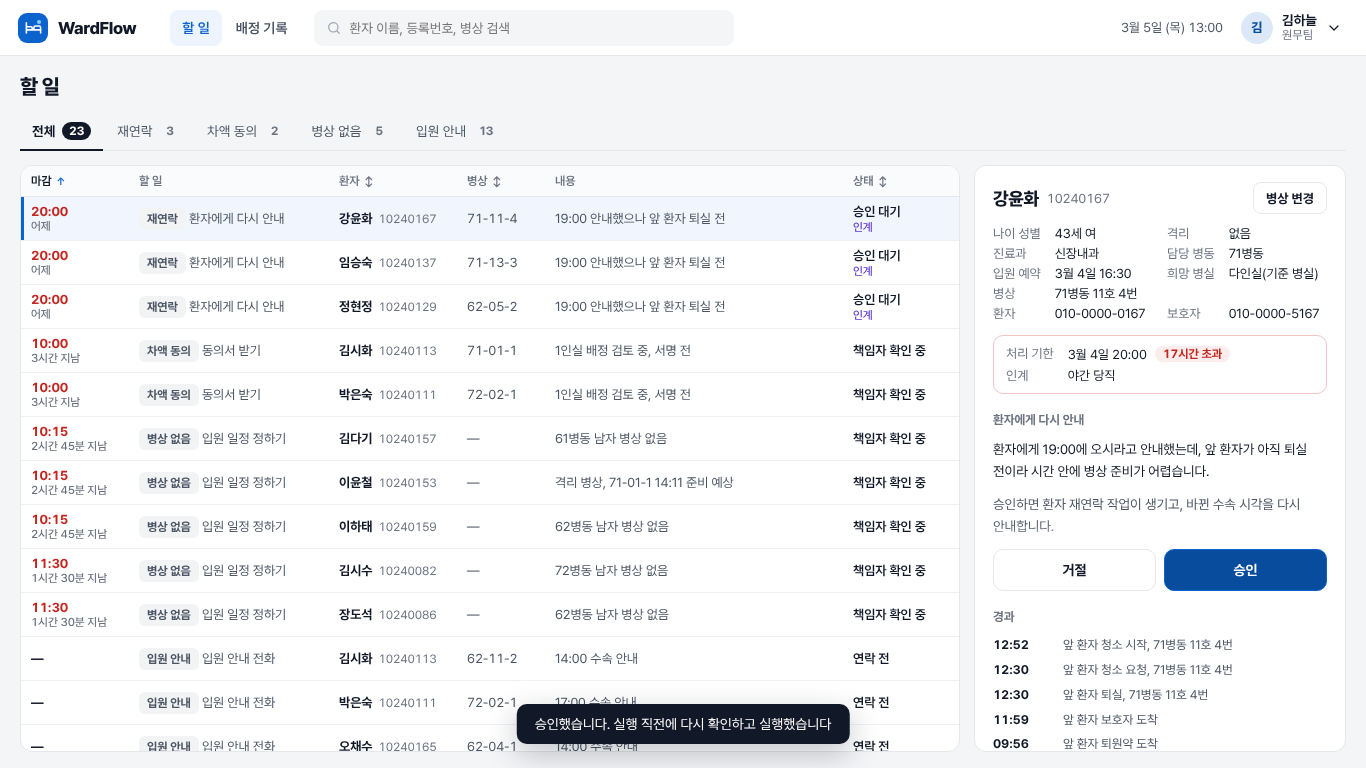
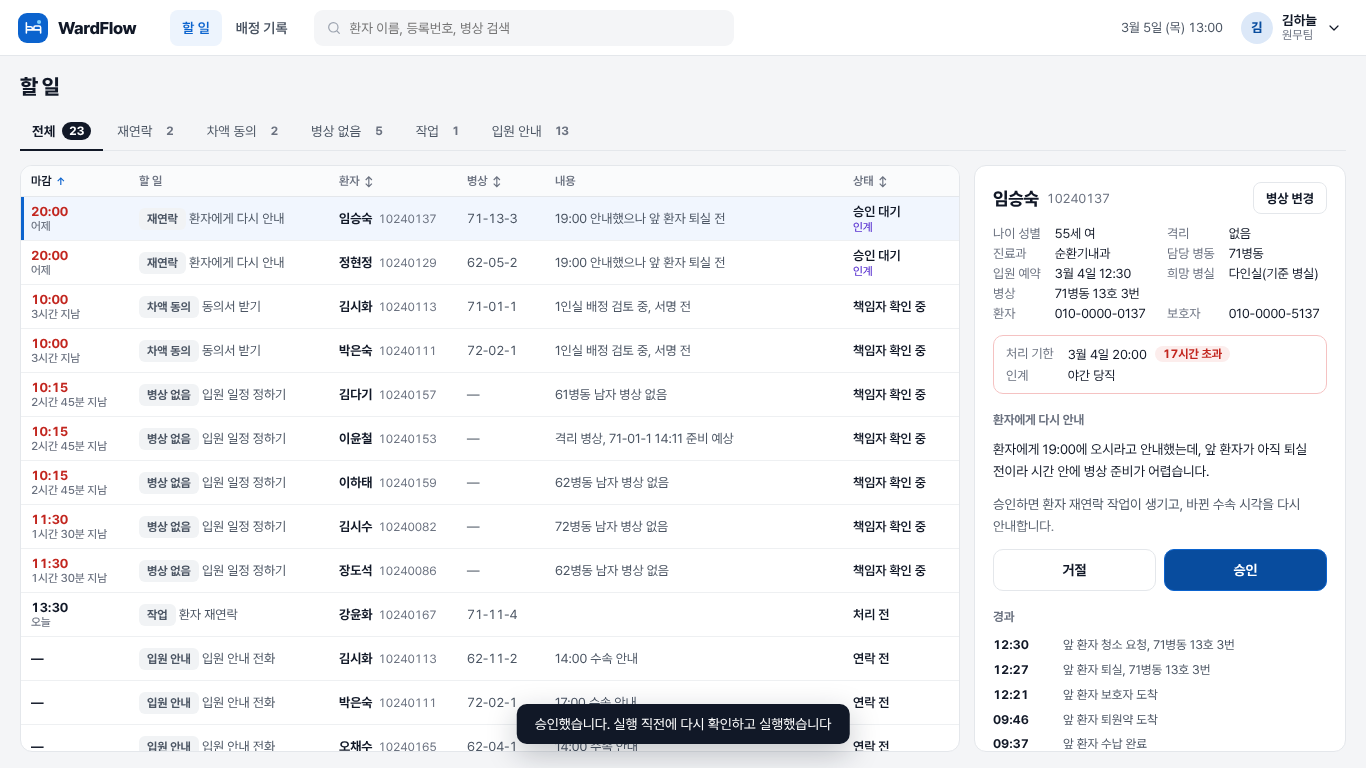
역할별 화면과 열람 범위(원무 전용 API, 병동은 자기 병동 환자만), 병상 선택 병동 탭, 차선책 가능 문구
Claude-Session: https://claude.ai/code/session_01LTbFbGTsqcm4pRk2rt9J7f

diff --git a/web/src/pages/BedPicker.tsx b/web/src/pages/BedPicker.tsx
@@ -1,7 +1,7 @@
-import { useEffect, useState } from 'react'
+import { useEffect, useRef, useState } from 'react'
 import { api, ApiError, type Board, type BoardBed } from '../api'
 
-const FIT_LABEL: Record<string, string> = { ok: '배정 가능', reason: '사유 적으면 가능', ipc: '감염관리실 승인 필요', no: '배정 불가' }
+const FIT_LABEL: Record<string, string> = { ok: '배정 가능', reason: '차선책 가능', ipc: '감염관리실 승인 필요', no: '배정 불가' }
 
 // 병상 직접 지정: 왼쪽은 환자 조건, 추천 병상, 사유와 확정. 오른쪽은 병동→병실→병상 현황판.
 // 병상마다 고를 수 있는지는 서버(게이트웨이 사전 검사)가 정하고, 확정도 게이트웨이가 다시 검사한다.
@@ -12,9 +12,17 @@ export function BedPicker({ caseId, onClose, onDone }: { caseId: string; onClose
   const [memo, setMemo] = useState('')
   const [err, setErr] = useState('')
   const [busy, setBusy] = useState(false)
-  useEffect(() => { api.beds(caseId).then(setB).catch(() => setErr('병상 현황을 불러오지 못했습니다')) }, [caseId])
+  const [tab, setTab] = useState<string | null>(null)
+  const bRef = useRef<Board | null>(null)
+  bRef.current = b
+  useEffect(() => { api.beds(caseId).then(x => { setB(x); setTab((x.wards.find(w => x.need.dept_wards.includes(w.name)) ?? x.wards[0])?.id ?? null) }).catch(() => setErr('병상 현황을 불러오지 못했습니다')) }, [caseId])
   useEffect(() => {
-    const k = (e: KeyboardEvent) => e.key === 'Escape' && onClose()
+    const k = (e: KeyboardEvent) => {
+      if (e.key === 'Escape') onClose()
+      if ((e.key === 'ArrowRight' || e.key === 'ArrowLeft') && !(document.activeElement instanceof HTMLTextAreaElement || document.activeElement instanceof HTMLSelectElement)) {
+        setTab(t => { const ws = bRef.current?.wards ?? []; const i = ws.findIndex(w => w.id === t); const n = ws[i + (e.key === 'ArrowRight' ? 1 : -1)]; return n ? n.id : t })
+      }
+    }
     window.addEventListener('keydown', k); return () => window.removeEventListener('keydown', k)
   }, [onClose])
 
@@ -71,13 +79,21 @@ export function BedPicker({ caseId, onClose, onDone }: { caseId: string; onClose
               </>)}
             </aside>
             <section className="pk-board">
-              <div className="legend">
-                <span><i className="ok" />배정 가능</span><span><i className="reason" />사유 적으면 가능</span>
+              <div className="legend" title="← → 키로 병동을 넘길 수 있습니다">
+                <span><i className="ok" />배정 가능</span><span><i className="reason" />차선책 가능</span>
                 <span><i className="ipc" />감염관리실 승인 필요</span><span><i className="no" />배정 불가</span>
               </div>
-              {b.wards.map(w => (
+              <div className="wtabs" role="tablist" aria-label="병동">
+                {b.wards.map(w => {
+                  const free = w.rooms.flatMap(r => r.beds).filter(x => x.fit !== 'no').length
+                  return (
+                    <button key={w.id} role="tab" aria-selected={tab === w.id} className={tab === w.id ? 'on' : ''} onClick={() => setTab(w.id)}>
+                      <b>{w.name}</b><span>{b.need.dept_wards.includes(w.name) ? '담당 병동' : w.specialty}</span>
+                      <em className={free ? 'has' : ''}>{free ? `가능 ${free}` : '가능 없음'}</em></button>)
+                })}
+              </div>
+              {b.wards.filter(w => w.id === tab).map(w => (
                 <div key={w.id} className="wd">
-                  <h3>{w.name}<span>{w.specialty}{b.need.dept_wards.includes(w.name) ? ', 담당 병동' : ''}</span></h3>
                   <div className="rooms">{w.rooms.map(r => (
                     <div key={r.id} className="room">
                       <div className="rh"><b>{r.label}</b><span>{r.grade}{r.sex && ` ${r.sex}`}{r.cohort && ` 코호트`}</span></div>

diff --git a/web/src/pages/RoleHome.tsx b/web/src/pages/RoleHome.tsx
@@ -1,0 +1,40 @@
+import { useState } from 'react'
+import type { User } from '../api'
+import { Icon, Logo } from '../icons'
+
+// 원무가 아닌 역할의 첫 화면. 역할마다 화면과 권한이 다르다(최소 권한). 병동·감염관리실·관리자 화면은 로드맵 P3·P4에서 만든다.
+const NEXT: Record<string, string> = {
+  ward: '병동 화면에서는 우리 병동으로 올 환자와 퇴원 진행, 병상 준비를 봅니다.',
+  ipc: '감염관리실 화면에서는 격리 환자의 병상 결정과 종말소독 확인을 처리합니다.',
+  id_oncall: '감염관리실 화면에서는 격리 환자의 병상 결정과 종말소독 확인을 처리합니다.',
+  admin: '관리자 화면에서는 접속기록과 계정, 정책 설정을 봅니다.',
+}
+
+export function RoleHome({ user, onLogout, onSwitch }: { user: User; onLogout: () => void; onSwitch: () => void }) {
+  const [menu, setMenu] = useState(false)
+  return (
+    <div className="app">
+      <header className="appbar">
+        <div className="brand"><Logo /><b>WardFlow</b></div>
+        <div className="ab-r">
+          <div className="menu-wrap">
+            <button className="user" onClick={() => setMenu(m => !m)} aria-expanded={menu} aria-haspopup="menu"><span className="av">{user.name[0]}</span>
+              <span><div className="n">{user.name}</div><div className="r">{user.role_label}</div></span><Icon name="chev" small /></button>
+            {menu && (
+              <div className="menu" role="menu">
+                <div className="who"><b>{user.name}</b><br />{user.role_label}</div>
+                <button role="menuitem" onClick={onSwitch}><Icon name="swap" small />다른 계정으로 로그인</button>
+                <button role="menuitem" onClick={onLogout}><Icon name="logout" small />로그아웃</button>
+              </div>
+            )}
+          </div>
+        </div>
+      </header>
+      <div className="empty role-home">
+        <h1>{user.role_label} 화면은 준비 중입니다</h1>
+        <p>{NEXT[user.role] ?? ''}</p>
+        <p className="note">지금은 원무팀 화면만 열려 있습니다. 원무 계정으로 로그인하면 할 일과 배정 기록을 볼 수 있습니다.</p>
+      </div>
+    </div>
+  )
+}

diff --git a/web/src/main.tsx b/web/src/main.tsx
@@ -3,6 +3,7 @@ import { createRoot } from 'react-dom/client'
 import { api, token, type User } from './api'
 import { Entry } from './pages/Entry'
 import { Login } from './pages/Login'
+import { RoleHome } from './pages/RoleHome'
 import { Worklist } from './pages/Worklist'
 import './styles.css'
 
@@ -16,7 +17,11 @@ function App() {
   const logout = () => { token.clear(); setView({ page: 'entry' }) }
 
   if (view.page === 'login') return <Login demoFirst={view.demoFirst} onDone={u => setView({ page: 'app', user: u })} onBack={() => setView({ page: 'entry' })} />
-  if (view.page === 'app') return <Worklist user={view.user} onLogout={logout} onSwitch={() => { token.clear(); setView({ page: 'login', demoFirst: true }) }} />
+  const onSwitch = () => { token.clear(); setView({ page: 'login', demoFirst: true }) }
+  // 역할마다 화면이 다르다: 원무팀은 할 일 화면, 다른 팀은 각자의 화면(권한도 서버가 역할로 막는다)
+  if (view.page === 'app') return view.user.role === 'bed_manager'
+    ? <Worklist user={view.user} onLogout={logout} onSwitch={onSwitch} />
+    : <RoleHome user={view.user} onLogout={logout} onSwitch={onSwitch} />
   if (view.page === 'demo') return <div className="empty">시연 화면을 준비하고 있습니다 <button className="btn sm" onClick={() => setView({ page: 'entry' })}>처음 화면</button></div>
   return <Entry onDemo={() => setView({ page: 'demo' })} onOps={() => setView({ page: 'login', demoFirst: true })} />
 }

diff --git a/web/src/styles.css b/web/src/styles.css
@@ -258,3 +258,11 @@ tr.row.pick td:first-child { box-shadow: inset 3px 0 0 var(--brand); }
 .datenav { display: flex; align-items: center; gap: 4px; margin-left: 8px; }
 .datenav select { height: 34px; border: 1px solid var(--line); border-radius: 8px; padding: 0 10px; font: inherit; font-size: 13.5px; background: #fff; }
 .datenav .iconbtn { width: 34px; height: 34px; font-size: 18px; } .datenav .iconbtn:disabled { opacity: .35; }
+.role-home { flex: 1; display: flex; flex-direction: column; align-items: center; justify-content: center; gap: 10px; text-align: center; }
+.role-home h1 { font-size: 22px; font-weight: 800; color: var(--ink); } .role-home p { font-size: 15px; }
+.wtabs { display: grid; grid-template-columns: repeat(auto-fit, minmax(150px, 1fr)); gap: 8px; margin-bottom: 14px; }
+.wtabs button { border: 1px solid var(--line); border-radius: 10px; padding: 8px 12px; text-align: left; display: grid; grid-template-columns: 1fr auto; row-gap: 2px; background: #fff; }
+.wtabs button b { font-size: 14px; } .wtabs button span { grid-column: 1; font-size: 12px; color: var(--mute); }
+.wtabs button em { grid-column: 2; grid-row: 1 / span 2; align-self: center; font-style: normal; font-size: 12px; font-weight: 700; color: var(--mute); white-space: nowrap; }
+.wtabs button em.has { color: var(--green); }
+.wtabs button.on { border-color: var(--brand); background: var(--brand-50); } .wtabs button.on b { color: var(--brand); }

diff --git a/src/turnaround/api/app.py b/src/turnaround/api/app.py
@@ -168,6 +168,7 @@ def create_app() -> FastAPI:
     @app.get("/api/worklist")
     def worklist(s: Session = Depends(session)):
         from turnaround.api.worklist import admission_rows
+        admission_only(s)
         st = store.demo()
         out = admission_rows(st)
         store.log(s, "목록 조회", detail="오늘 할 일")
@@ -180,8 +181,30 @@ def create_app() -> FastAPI:
         d = patient_detail(st, case, store.accounts)
         if d is None:
             raise HTTPException(404, "없는 사례입니다")
+        if not may_view(st, s, case):
+            store.log(s, "열람 거부", case=case)  # 권한 밖 열람 시도도 접속기록에 남긴다
+            raise HTTPException(403, "이 환자를 볼 권한이 없습니다")
         store.log(s, "열람", case=case)
         return d
+
+    def may_view(st, s: Session, case: str) -> bool:
+        """최소 권한: 원무는 입원 대기 환자 전체, 병동은 자기 병동에 있거나 올 환자, 감염관리실은 격리 환자만."""
+        role = s.user["role"]
+        if role in ("bed_manager", "admin"):
+            return True
+        ev = st.store.read()
+        if role == "ward":
+            bed = st.gw._assignments(ev).get(case)
+            ward = next((b.ward_id for b in st.h.beds if b.id == bed), None) if bed else None
+            if ward is None:  # 아직 병상이 없으면 진료과 담당 병동 기준
+                from turnaround.ui import views
+                dept = (views._people(ev).get(case) or {}).get("department")
+                ward = next((w.id for w in st.h.wards if dept in w.departments), None)
+            return ward is not None and ward == s.ward
+        if role in ("ipc", "id_oncall"):
+            patient, _ = st.gw._admission(case, ev)
+            return bool(patient and (patient.precautions or patient.isolation_order))
+        return False
 
     # ---- 원무 처리 (P2). 기록은 사건 저장소에 사람 사건으로 남고, 접속기록에도 남는다 ----
     def admission_only(s: Session) -> None:

diff --git a/tests/test_api.py b/tests/test_api.py
@@ -207,3 +207,21 @@ def test_manual_assign_requires_reason_and_follows_gateway():
     assert mine["by"] == "김하늘" and "환자·보호자 요청" in mine["basis"]
     # 병상이 정해졌으니 그 환자의 '병상 없음' 할 일은 닫힌다
     assert case not in {x["case"] for x in _rows(c, h) if x["kind_label"] == "병상 없음"}
+
+
+# ---- 역할별 접근 (최소 권한): 다른 팀이 로그인하면 화면과 권한이 바뀐다 ----
+
+def test_role_scoping_for_worklist_and_patient_detail(client):
+    adm = _login(client)
+    rows = _rows(client, adm)
+    ward = _login(client, "ward71-park")  # 71병동 책임간호사
+    assert client.get("/api/worklist", headers=ward).status_code == 403  # 원무 할 일은 원무만
+    assert client.get("/api/assignments", headers=ward).status_code == 403
+    st = client.app.state.store.demo()
+    ward_of = {b.id: b.ward_id for b in st.h.beds}
+    with_bed = [r for r in rows if r["bed"] and r["kind"] != "confirmed"]
+    mine = next(r for r in with_bed if ward_of.get(st.gw._assignments(st.store.read()).get(r["case"], "")) == "W71")
+    other = next(r for r in with_bed if ward_of.get(st.gw._assignments(st.store.read()).get(r["case"], "")) not in (None, "W71"))
+    assert client.get(f"/api/patients/{mine['case']}", headers=ward).status_code == 200  # 자기 병동으로 오는 환자
+    assert client.get(f"/api/patients/{other['case']}", headers=ward).status_code == 403  # 다른 병동 환자
+    assert client.get("/api/me", headers=ward).json()["screen"] == "ward"

diff --git a/docs/DECISIONS.md b/docs/DECISIONS.md
@@ -625,3 +625,13 @@
   - 작업 닫힘 계산: 사례별 색인과 이분 탐색을 쓴다.
   - 환자 사건 반영: 사례별 색인을 쓴다.
   - SHACL 배치 검사: 그 병실만 검사한다. 배치 제약은 모두 병실 안 제약이고, 병원 전체에 걸리는 '없는 병상' 검사는 따로 한다.
+
+## 2026-11-10 역할별 화면과 열람 범위, 병상 선택 병동 탭
+
+- **역할마다 화면과 권한이 다르다.** 같은 단말에서 다른 팀이 로그인하면 화면도 권한도 그 역할의 것으로 바뀐다. 지금까지는 어떤 역할이 로그인해도 원무 할 일 화면이 보였고, 할 일 목록 API는 역할을 확인하지 않았다. 사용자 질문으로 발견해서 고쳤다.
+  - 할 일 목록, 배정 기록, 병상 현황, 직접 배정: 원무만.
+  - 환자 상세: 원무는 입원 대기 환자 전체를 본다. 병동은 자기 병동에 있거나 올 환자만 본다(병상이 없으면 진료과 담당 병동 기준). 감염관리실은 격리 환자만 본다. 권한 밖 열람 시도는 '열람 거부'로 접속기록에 남긴다.
+  - 원무가 아닌 역할의 화면은 로드맵 P3·P4에서 만든다. 그때까지는 그 역할 이름으로 '준비 중' 화면을 보여 준다.
+- **간호팀과 진료 기록.** 병동 화면에도 진료 기록(경과기록, 회진 기록, 검사)은 두지 않는다. 이 서비스는 병상 흐름 관제이고 진료 기록은 EMR이 맡는다. 병동 화면에는 병상과 입실 준비에 필요한 정보만 둔다(격리, 낙상 위험, 도착 예정, 퇴원 진행). 근거는 05 조사의 최소 권한 원칙이다(안전성 확보조치 기준 제5조, EMR 인증 F002 '직종 및 업무별' 권한).
+- **'차선책 가능'.** 정책 파일의 안전 예외 등급 reason_entry(격리 환자를 1인실이 없을 때 다인실에 커튼과 1m 간격으로 두는 차선책, 표준예방지침 5.3.2.4·5.4.2.5, LP-24)를 화면에서 '차선책 가능'으로 부른다. 이 등급은 사유를 남기면 배정되고 감염관리실이 나중에 검토한다.
+- **병상 선택 병동 탭.** 현황판은 병동 탭으로 넘겨 본다. 탭마다 배정할 수 있는 병상 수를 보여 주고, 처음에는 환자의 진료과 담당 병동을 연다. ← → 키로도 넘길 수 있다.
